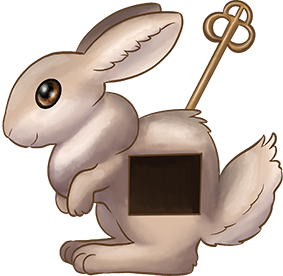
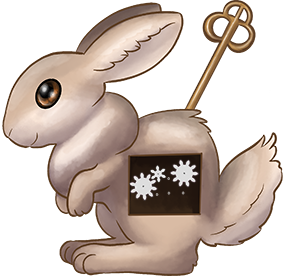
drag keys to open attic door

Changed region(s): [[0.4523, 0.5797, 0.7067, 0.7246]]

diff --git a/core/src/main/java/com/mystudio/gamename/items/InteractableItem.java b/core/src/main/java/com/mystudio/gamename/items/InteractableItem.java
@@ -2,6 +2,7 @@ package com.mystudio.gamename.items;
 
 import com.badlogic.gdx.scenes.scene2d.InputEvent;
 import com.badlogic.gdx.scenes.scene2d.Touchable;
+import com.badlogic.gdx.scenes.scene2d.actions.MoveToAction;
 import com.badlogic.gdx.scenes.scene2d.ui.Image;
 import com.badlogic.gdx.scenes.scene2d.utils.ClickListener;
 import com.badlogic.gdx.scenes.scene2d.utils.DragListener;
@@ -39,6 +40,12 @@ public class InteractableItem extends Item {
         }
     };
     private ArrayList<String> targetNames = new ArrayList<String>();
+    private DropTargetHanlder dropHandler = new DropTargetHanlder() {
+        @Override
+        public void handleDrop(InteractableItem item) {
+            handleDropFail(item);
+        }
+    };
 
     public MainAdapter mainAdapter;
     public boolean inInventory = false;
@@ -79,8 +86,6 @@ public class InteractableItem extends Item {
         addListener(dragListener);
     }
 
-
-
     public void stopDraggable() {
         DragAndDropModified.removeSource(dragSource);
     }
@@ -90,6 +95,10 @@ public class InteractableItem extends Item {
             pickUpListener = new ClickListener() {
                 @Override
                 public boolean touchDown (InputEvent event, float x, float y, int pointer, int button) {
+                    MoveToAction moveToAction = new MoveToAction();
+                    moveToAction.setPosition(1200, 20);
+                    moveToAction.setDuration(1f);
+                    addAction(moveToAction);
                     mainAdapter.addToInventory(getItem());
                     return true;
                 }
@@ -136,7 +145,7 @@ public class InteractableItem extends Item {
     }
 
     public void handleDrop(InteractableItem item) {
-        handleDropFail(item);
+        dropHandler.handleDrop(item);
     }
 
     public void handleDropFail(InteractableItem item) {
@@ -162,5 +171,9 @@ public class InteractableItem extends Item {
         stopPickUpable();
         setDraggable();
         setBounds(0, 0, INVENTORY_SIZE, INVENTORY_SIZE);
+    }
+
+    public void addDropHandler(DropTargetHanlder handler) {
+        dropHandler = handler;
     }
 }

diff --git a/core/src/main/java/com/mystudio/gamename/views/LightAttic.java b/core/src/main/java/com/mystudio/gamename/views/LightAttic.java
@@ -3,6 +3,8 @@ package com.mystudio.gamename.views;
 import com.badlogic.gdx.graphics.Texture;
 import com.badlogic.gdx.scenes.scene2d.InputEvent;
 import com.badlogic.gdx.scenes.scene2d.utils.ClickListener;
+import com.mystudio.gamename.items.DropTargetHanlder;
+import com.mystudio.gamename.items.InteractableItem;
 import com.mystudio.gamename.items.Item;
 import com.mystudio.gamename.utils.GameState;
 import com.mystudio.gamename.utils.MainAdapter;
@@ -13,7 +15,7 @@ import org.mini2Dx.core.engine.geom.CollisionPolygon;
 import org.mini2Dx.core.geom.Polygon;
 
 public class LightAttic extends View {
-    public LightAttic(MainAdapter mainAdapter) {
+    public LightAttic(final MainAdapter mainAdapter) {
         super(mainAdapter);
         background = new Texture("views/attic_bg_light.png");
         floorspace = new Polygon(new float[]{
@@ -56,12 +58,19 @@ public class LightAttic extends View {
         actors.addActor(backpack);
 
         // Add attic door
-        SceneTrigger door = new SceneTrigger(null, new CollisionPolygon(new float[] {
+        InteractableItem door = new InteractableItem(null, new CollisionPolygon(new float[] {
             338, 76,
             488, 161,
             638, 132,
             625, 75
-        }), GameState.CORRIDOR, mainAdapter);
+        }), mainAdapter);
+        door.addDropHandler(new DropTargetHanlder() {
+            @Override
+            public void handleDrop(final InteractableItem item) {
+                mainAdapter.updateState(GameState.CORRIDOR);
+            }
+        });
+        mainAdapter.addToTargetRegistry("attic_door", door);
         actors.addActor(door);
 
     }

diff --git a/core/src/main/java/com/mystudio/gamename/views/AtticShelf.java b/core/src/main/java/com/mystudio/gamename/views/AtticShelf.java
@@ -1,6 +1,7 @@
 package com.mystudio.gamename.views;
 
 import com.badlogic.gdx.graphics.Texture;
+import com.mystudio.gamename.items.InteractableItem;
 import com.mystudio.gamename.utils.GameState;
 import com.mystudio.gamename.utils.MainAdapter;
 import com.mystudio.gamename.windows.MiniGame;
@@ -30,15 +31,18 @@ public class AtticShelf extends View {
         MinigameTrigger rabbit = new MinigameTrigger("gearpuzzle/Windup_Bunny.png", new CollisionBox(300, 380, 150, 150), gearGame, mainAdapter);
         actors.addActor(rabbit);
 
+//        InteractableItem test = new InteractableItem("gearpuzzle/Windup_Bunny.png", new CollisionBox(600, 380, 150, 150), mainAdapter);
+//        test.setPickUpable();
+//        actors.addActor(test);
+
 //        Gear gear = new Gear(mainAdapter, 600, 450, 40);
 //        gear.setPickUpable();
 //        gear.addTargetName("mount1");
 //        actors.addActor(gear);
-//
+
 //        Gear gear2 = new Gear(mainAdapter, 700, 450, 40);
 //        gear2.setPickUpable();
 //        gear2.addTargetName("mount1");
 //        actors.addActor(gear2);
-
     }
 }

diff --git a/core/src/main/java/com/mystudio/gamename/gearpuzzlegame/GearPuzzleGame.java b/core/src/main/java/com/mystudio/gamename/gearpuzzlegame/GearPuzzleGame.java
@@ -6,6 +6,7 @@ import com.badlogic.gdx.utils.Timer;
 import com.mystudio.gamename.items.InteractableItem;
 import com.mystudio.gamename.utils.MainAdapter;
 import com.mystudio.gamename.windows.MiniGame;
+import org.mini2Dx.core.engine.geom.CollisionBox;
 
 import java.util.ArrayList;
 import java.util.HashSet;
@@ -157,6 +158,9 @@ public class GearPuzzleGame extends MiniGame {
         if (!success) {
             if (finalGear.spinning) {
                 if (finalGear.speed > 0) {
+                    InteractableItem key = new InteractableItem("gearpuzzle/attickey.png", new CollisionBox(0, 0, 80, 80), getMainAdapter());
+                    key.addTargetName("attic_door");
+                    getMainAdapter().addToInventory(key);
 //                    System.out.println("Congrats");
 //                    Timer.schedule(new com.badlogic.gdx.utils.Timer.Task() {
 //                        public void run() {

diff --git a/core/src/main/java/com/mystudio/gamename/items/SceneTrigger.java b/core/src/main/java/com/mystudio/gamename/items/SceneTrigger.java
@@ -9,9 +9,9 @@ import org.mini2Dx.core.engine.geom.CollisionShape;
 /**
  * Items that take you to new views
  */
-public class SceneTrigger extends Item {
+public class SceneTrigger extends InteractableItem {
   public SceneTrigger(String image, CollisionShape shape, final GameState nextState, final MainAdapter mainAdapter) {
-    super(image, shape);
+    super(image, shape, mainAdapter);
     addListener(new ClickListener() {
       @Override
       public boolean touchDown(InputEvent event, float x, float y, int pointer, int button) {

diff --git a/core/src/main/java/com/mystudio/gamename/items/DropTargetHanlder.java b/core/src/main/java/com/mystudio/gamename/items/DropTargetHanlder.java
@@ -1,0 +1,5 @@
+package com.mystudio.gamename.items;
+
+public interface DropTargetHanlder {
+    void handleDrop(InteractableItem item);
+}

diff --git a/core/src/main/java/com/mystudio/gamename/gearpuzzlegame/Mount.java b/core/src/main/java/com/mystudio/gamename/gearpuzzlegame/Mount.java
@@ -31,5 +31,4 @@ public class Mount extends InteractableItem {
             gearAdapter.addGear(gear);
         }
     }
-
 }
